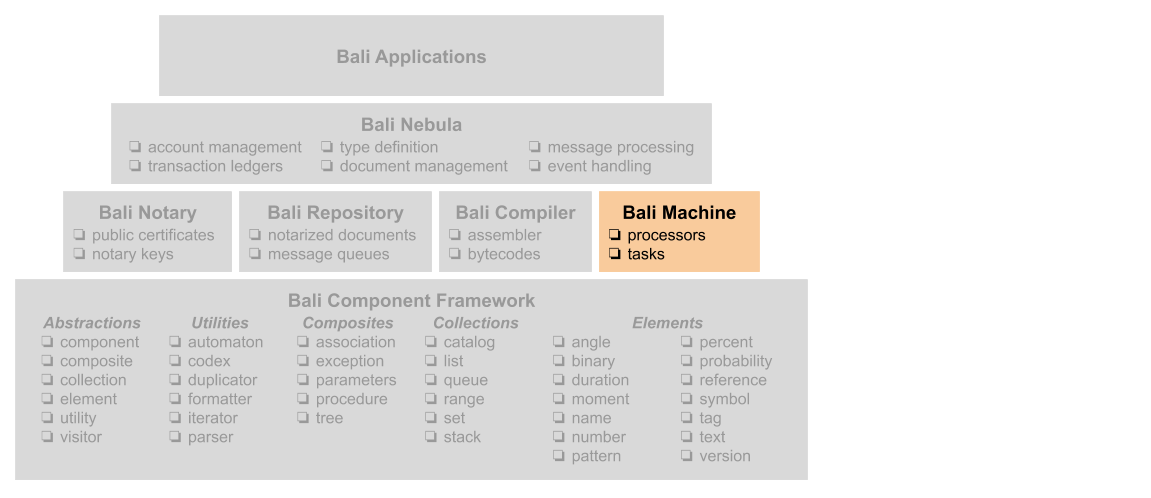
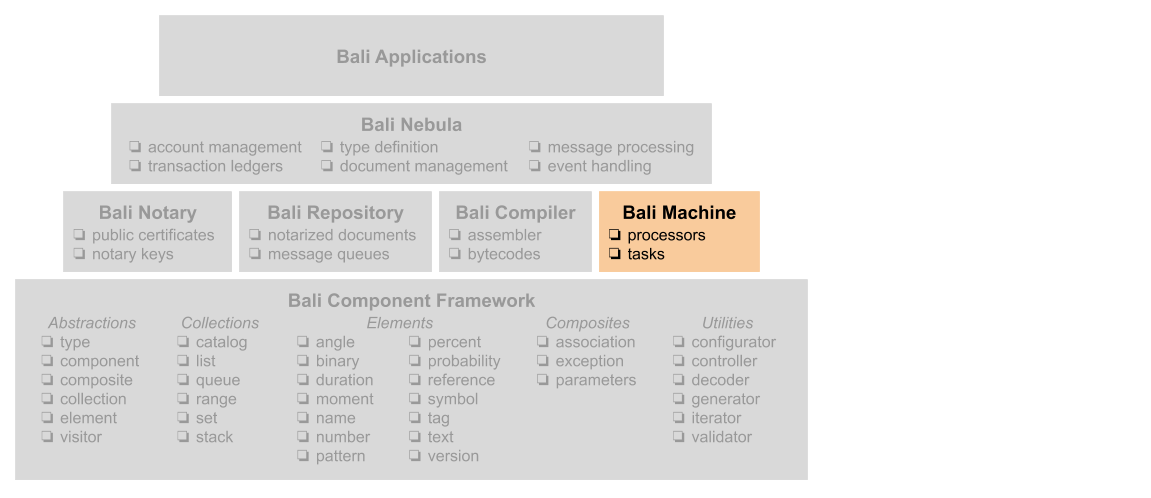
Renamed Codex -> Decoder, Machine -> Controller, and Savant -> Calculator.

Changed region(s): [[0.152, 0.6325, 0.4561, 0.9337], [0.4561, 0.6325, 0.669, 0.9337], [0.0304, 0.6325, 0.1216, 0.8434]]

diff --git a/src/VirtualProcessor.js b/src/VirtualProcessor.js
@@ -223,8 +223,8 @@ const importCurrentContext = function(processor) {
 const exportCurrentContext = function(processor) {
     const context = processor.context;
     const bytes = processor.compiler.bytes(context.bytecode);
-    const codex = bali.codex();
-    const base16 = codex.base16Encode(bytes);
+    const decoder = bali.decoder();
+    const base16 = decoder.base16Encode(bytes);
     var source = "'%bytecode'($encoding: $base16, $mediatype: \"application/bcod\")";
     source = source.replace(/%bytecode/, base16);
     const bytecode = bali.component(source);
